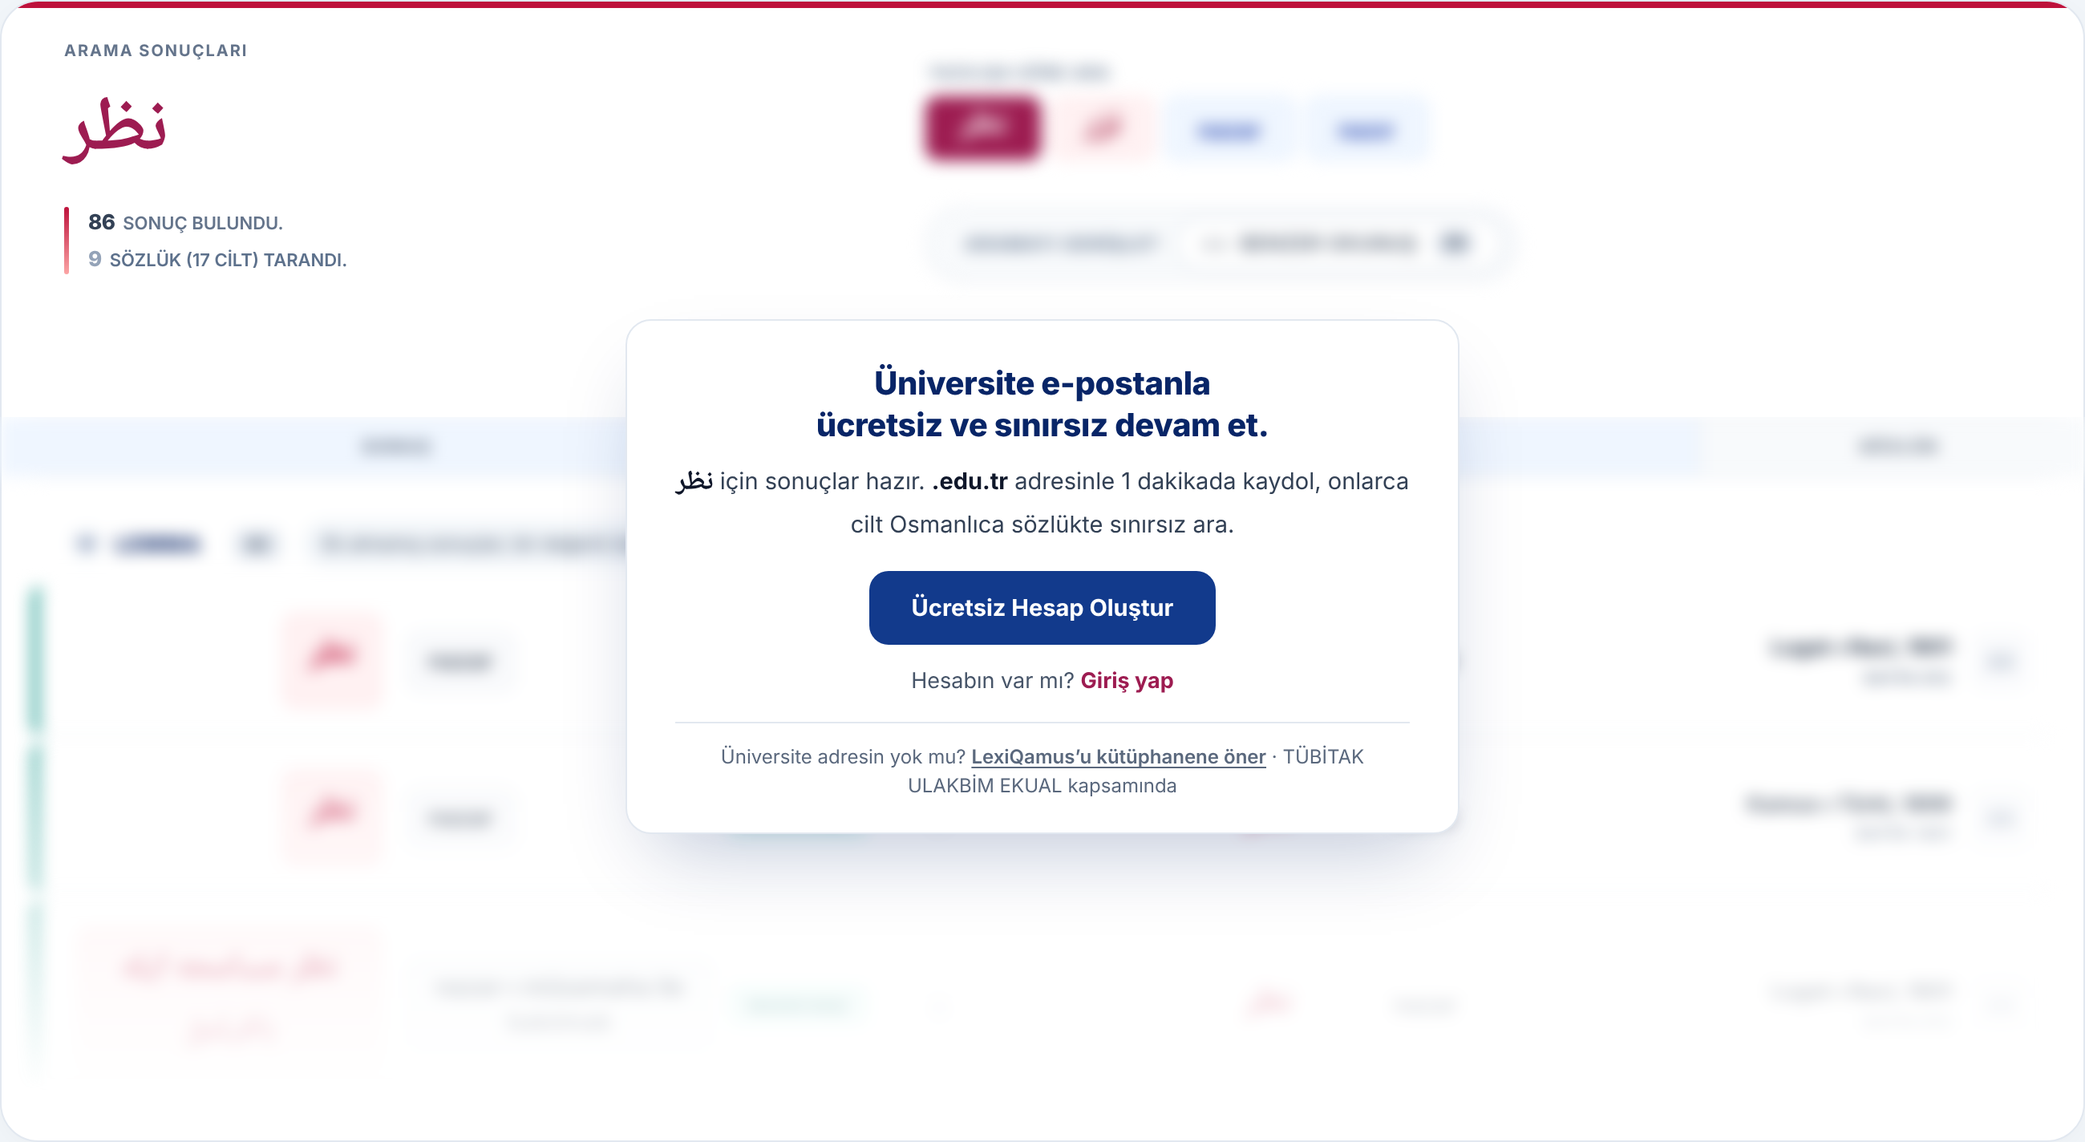
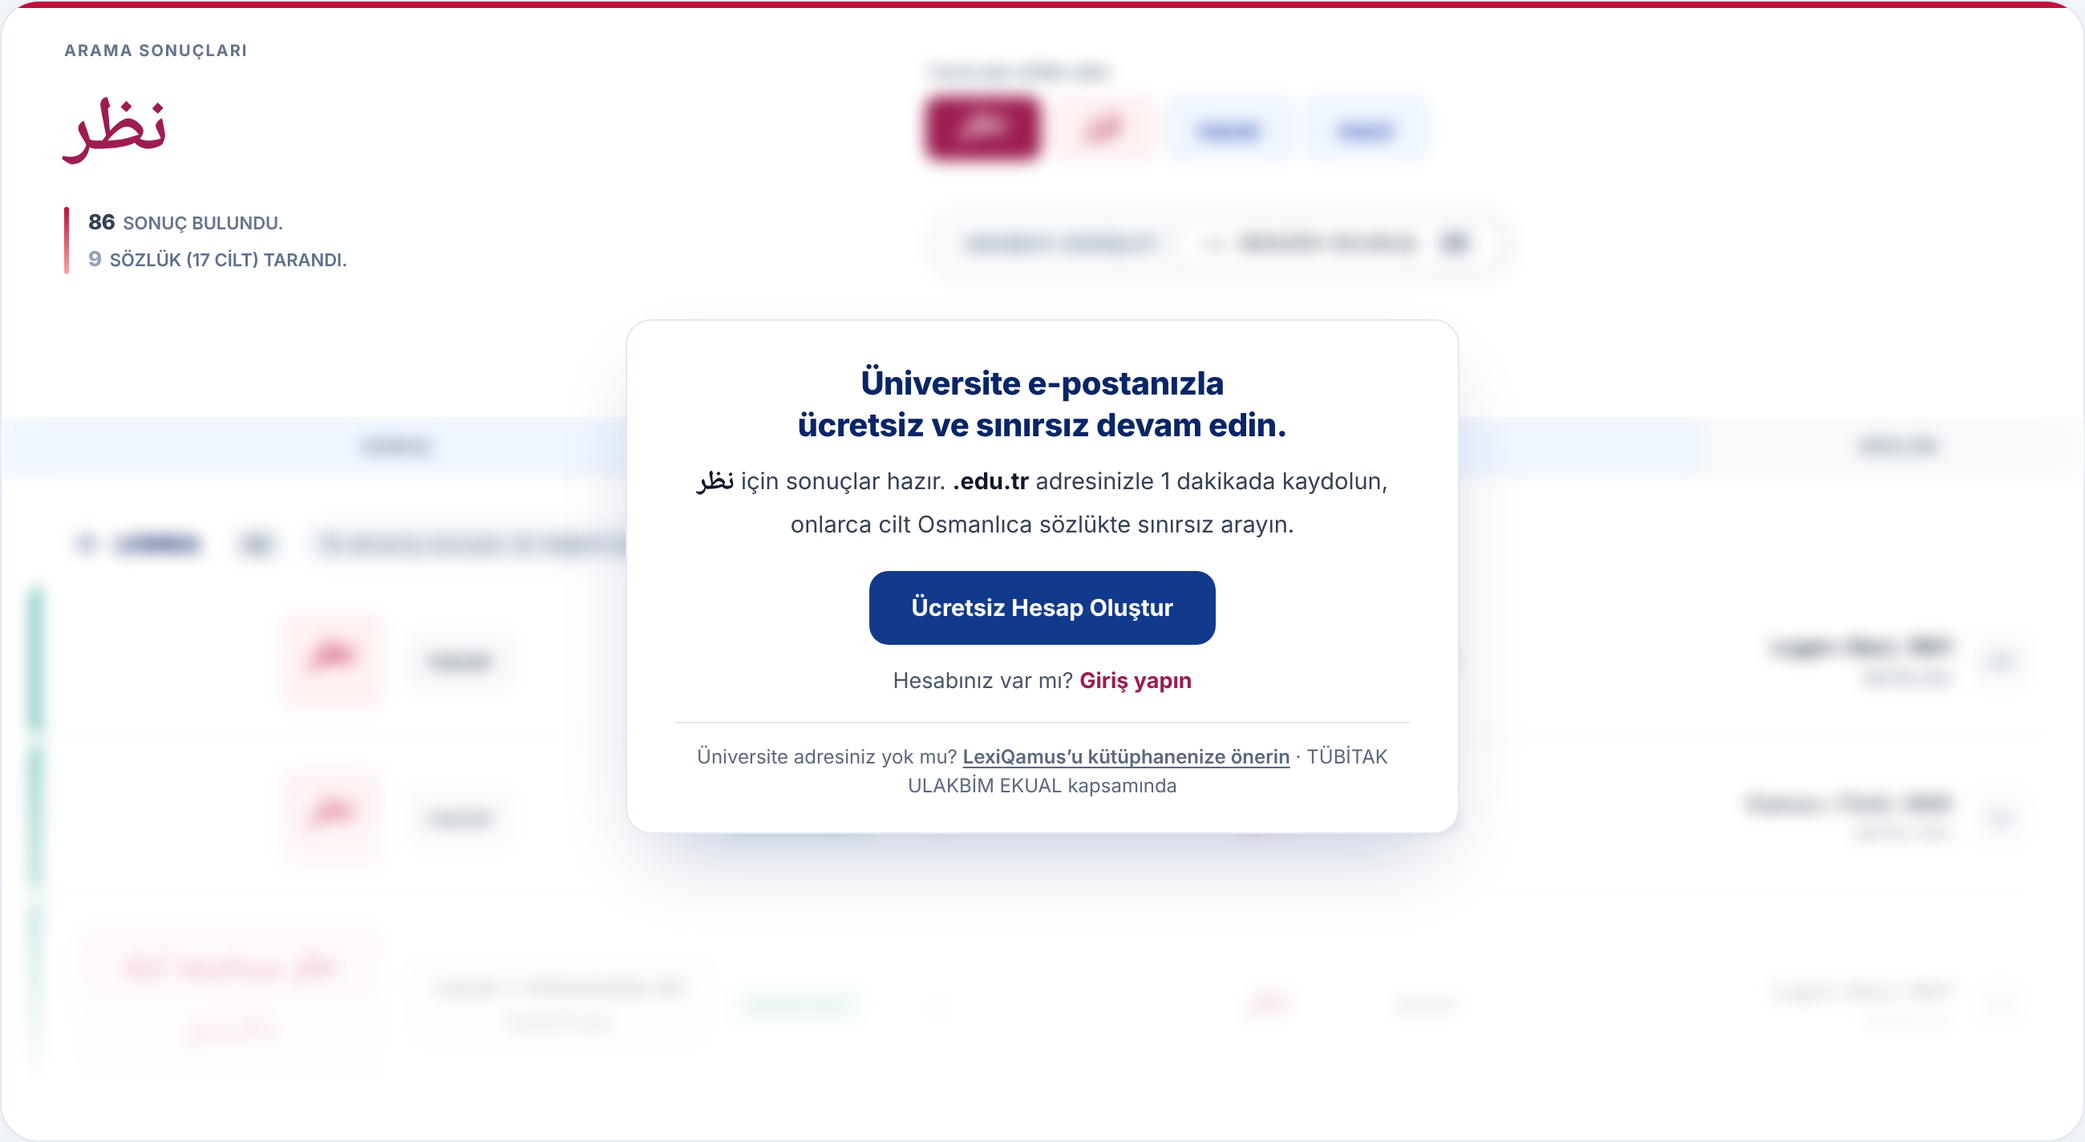
The conversion tickets follow the formal Turkish and the personal-address step
LQ-CV-1 and LQ-CV-3 take the Turkish text as it now reads, addressing the
reader as "siz", with fresh screenshots. LQ-CV-2 is rewritten around the
whole university sign-up: the offer line, the personal email field and
its errors, the "Check your inbox" step with the send-to-personal button,
every new string in both languages, and what the server has to store,
send and show support.

Claude-Session: https://claude.ai/code/session_016AjZEYBby257vLM7Sy5kZE

Changed region(s): [[0.3115, 0.309, 0.6854, 0.4635], [0.3427, 0.6489, 0.6542, 0.6798], [0.4362, 0.5871, 0.5608, 0.618]]

diff --git a/docs/tickets/LQ-CV-2-sign-up-form.md b/docs/tickets/LQ-CV-2-sign-up-form.md
@@ -1,82 +1,169 @@
-# LQ-CV-2 — The sign-up form says a university address makes it free
+# LQ-CV-2 — Sign-up with a university address: the offer, a personal address, and the inbox step
 
-- **Area:** The sign-up window
-- **Type:** Small change — one new line under the email field, and one tick box that starts unticked
-- **Front end:** done in the new front end (`muhammethabib/lq-frontend`, commit `850b9c6`)
-- **Server:** only the consent box needs a check (see *What the server needs to do*)
+- **Area:** The sign-up window, and a new step shown after it is sent
+- **Type:** Change to the form, plus one new step
+- **Front end:** done in the new front end (`muhammethabib/lq-frontend`, commits `850b9c6`, `901fded` and `99858fd`)
+- **Server:** store a second address, send the confirmation to either address, and record newsletter consent correctly (see *What the server needs to do*)
 
 ---
 
 ## Summary
 
-The sign-up form today never says that a `.edu.tr` address gets free,
-unlimited access — the very reason most people are signing up. Two changes:
+Accounts made with a `.edu.tr` address get free, unlimited access. The
+sign-up form today never says so, and it gives no way out when the
+confirmation email does not reach a university address — the person is
+left stuck and drops out.
 
-1. **A line under the email field** offers it, and turns into a green
-   confirmation as soon as the visitor types a university address.
-2. **The newsletter box starts unticked.** Today it is ticked in advance.
+Four changes:
+
+1. **A line under the email field** offers the free access, and turns into a
+   green confirmation as soon as a university address is typed.
+2. **A "Personal email" field** opens under it for a university address. It
+   is required for them. It is a backup: the confirmation link can be sent
+   there, and support can reach the person there.
+3. **A "Check your inbox" step** replaces the form once it is sent. It says
+   where the link went, and — for a university address — offers to send it
+   to the personal address with one press.
+4. **The newsletter box starts unticked.** Today it is ticked in advance.
    Under KVKK and the GDPR, consent to marketing mail has to be given by the
    user; a box that is already ticked does not count as consent.
 
 ## Today
 
-The newsletter box is already ticked, and nothing mentions `.edu.tr`.
+The newsletter box is already ticked, nothing mentions `.edu.tr`, and there
+is no second address.
 
 ![The sign-up form on the live site today](img/cv2-today.png)
 
 ## New
 
-**The whole form (English).** The line under *Email* is new; the newsletter
-box is unticked.
+### 1. The form, before an address is typed
 
-![The new sign-up form](img/cv2-form-en.png)
+The line under *Email* is new; the newsletter box is unticked.
 
-**While typing a non-university address** — the offer stays:
+![The new sign-up form, English](img/cv2-form-en.png)
+
+With a non-university address, the line stays as the offer:
 
 ![Hint with a gmail address, Turkish](img/cv2-plain-tr.png)
 
-**As soon as the address is a university one** — the line turns green:
+### 2. A university address is typed
 
-![Hint with a .edu.tr address, Turkish](img/cv2-edu-tr.png)
+The line turns green, and the *Personal email* field opens below it.
 
-![Hint with a .edu.tr address, English](img/cv2-edu-en.png)
+![The form with a .edu.tr address and the personal email field, Turkish](img/cv2-personal-tr.png)
+
+If the personal email is left empty, or is another university address, the
+form says so under the field and does not go on:
+
+![The error under the personal email field, Turkish](img/cv2-error-tr.png)
+
+### 3. After *Create account*: check your inbox
+
+**Signed up with a university address** — the link went to the university
+address; the box offers the personal one. After the button is pressed, a
+green line confirms it:
+
+![Check your inbox, university address, Turkish](img/cv2-sent-tr.png)
+
+![Check your inbox, university address, English](img/cv2-sent-en.png)
+
+**Signed up with a personal address** — only where the link went, and
+*Send it again*:
+
+![Check your inbox, personal address, Turkish](img/cv2-sentplain-tr.png)
 
 ## How it behaves
 
-1. When the form opens, the line under *Email* shows the offer.
-2. As the visitor types, the page checks the address after every key press.
-3. If the part after `@` ends in `edu.tr` (for example `ogr.ankara.edu.tr`,
-   `metu.edu.tr`), the offer is swapped for a green tick and the
-   confirmation.
-4. If the visitor changes the address so that it no longer ends in `edu.tr`,
-   the offer comes back.
-5. Screen readers hear the change (the line is a polite live region).
-6. The newsletter box is unticked when the form opens.
+1. When the form opens, the line under *Email* shows the offer. The
+   *Personal email* field is not shown.
+2. As the person types, the page checks the address after every key press.
+   If the part after `@` ends in `edu.tr` (for example `ogr.ankara.edu.tr`,
+   `metu.edu.tr`):
+   - the offer is swapped for a green tick and the confirmation;
+   - the *Personal email* field appears below and becomes required.
+3. If the address is changed so that it no longer ends in `edu.tr`, the offer
+   comes back and the *Personal email* field goes away again.
+4. On *Create account*, for a university address:
+   - an empty personal email shows *Please add a personal email as well.*;
+   - a personal email that is also a university address shows *Use an
+     address outside your university, such as Gmail or Outlook.*
+   - in both cases the form stays, with the cursor in that field.
+5. When the form is sent, the window's title becomes *Check your inbox* and
+   it shows the address the link went to.
+6. For a university address only, a box below says what to do if it does not
+   arrive, with the button **Send it to my personal address** and the
+   personal address under it. Pressing it sends the link there, greys the
+   button out and shows the green confirmation line.
+7. *Send it again* sends the link to the main address again.
+8. The newsletter box is unticked when the form opens.
+9. Screen readers hear the changing lines (the hint, the error and the
+   confirmation are polite live regions).
 
-The check, as written in the front end:
+The university-address check, as written in the front end:
 
 ```js
 /@([a-z0-9-]+\.)*edu\.tr$/i
 ```
 
+The *Personal email* field is asked only of university addresses: anyone
+signing up with Gmail, Outlook and so on is already giving a personal
+address, and a second field would only slow them down.
+
 ## New text
 
-Copy these exactly. Bold parts are marked with `<b>…</b>`.
+Copy these exactly. Bold parts are marked with `<b>…</b>`. The Turkish text
+addresses the reader as *siz*, as the rest of the site does.
+
+**The form**
 
 | Part | English | Turkish |
 |------|----------|----------|
-| Offer (before a university address is typed) | `Universities in Türkiye and the TRNC: sign up with your <b>.edu.tr</b> address to use LexiQamus free and without limits.` | `<b>.edu.tr</b> adresinle kaydol, LexiQamus’u ücretsiz ve sınırsız kullan.` |
+| Offer (before a university address is typed) | `Universities in Türkiye and the TRNC: sign up with your <b>.edu.tr</b> address to use LexiQamus free and without limits.` | `<b>.edu.tr</b> adresinizle kaydolun, LexiQamus’u ücretsiz ve sınırsız kullanın.` |
 | Confirmation (after one is typed) | `University address: free, unlimited access.` | `Üniversite adresi: ücretsiz ve sınırsız erişim.` |
+| Personal email, label | `Personal email` | `Kişisel e-posta` |
+| Personal email, hint | `A backup address. We can send your confirmation link here as well if you like, and our support team can reach you here.` | `Yedek adresiniz. Doğrulama bağlantısını isterseniz buraya da göndeririz; destek ekibimiz de size bu adresten ulaşır.` |
+| Error, empty | `Please add a personal email as well.` | `Kişisel e-posta adresinizi de yazın.` |
+| Error, a university address | `Use an address outside your university, such as Gmail or Outlook.` | `Üniversite dışı bir adres yazın; örneğin Gmail ya da Outlook.` |
+
+**The inbox step**
+
+| Part | English | Turkish |
+|------|----------|----------|
+| Title | `Check your inbox` | `E-postanızı kontrol edin` |
+| Before the address | `We sent a confirmation link to` | *(empty)* |
+| After the address | `.` | ` adresine doğrulama bağlantısı gönderdik.` *(starts with a space)* |
+| Next line | `Open it to finish creating your account.` | `Hesabınızı oluşturmayı tamamlamak için bağlantıyı açın.` |
+| If it does not arrive (university address only) | `Not there in a few minutes? Check your spam folder, or have the link sent to your personal address.` | `Birkaç dakika içinde gelmediyse spam klasörünüze bakabilir ya da bağlantıyı kişisel adresinize gönderebilirsiniz.` |
+| Button (university address only) | `Send it to my personal address` | `Kişisel adresime gönder` |
+| After the button is pressed | `Sent to your personal address too. Use whichever arrives first.` | `Kişisel adresinize de gönderdik. Hangisi önce gelirse onu kullanabilirsiniz.` |
+| Link | `Send it again` | `Yeniden gönder` |
+
+English puts the address after the words and Turkish before them, so the line
+has a slot on each side.
 
 ## What the server needs to do
 
-1. **Store newsletter consent only when the box was ticked.** If the server
+1. **Store the personal address** with the account, as a second email,
+   whenever one is given. It is given only with a university address.
+2. **Check it on the server too:** required when the main address ends in
+   `edu.tr`, and not itself an `edu.tr` address. The front end checks this
+   already; the server should not rely on it.
+3. **Send the confirmation link to the university address first.**
+4. **"Send it to my personal address"** sends the same link (or a fresh one)
+   to the personal address. Either link confirms the account. Confirming
+   through the personal address must still give the account its university
+   access — the access comes from the university address, not from which
+   inbox the link was opened in.
+5. **"Send it again"** sends the link to the main address again. A short
+   wait between sends (for example 60 seconds) keeps it from being pressed
+   over and over.
+6. **Show the personal address to the support team** in the admin, next to
+   the main address.
+7. **Store newsletter consent only when the box was ticked.** If the server
    sets a default anywhere (a model default, a migration, a hidden field),
-   it should default to *no*.
-2. **Existing members are not affected.** This only changes what a new
-   sign-up starts with.
-3. **The free access itself does not change.** The form only *says* what the
-   server already does for `.edu.tr` addresses. If the server's own rule for
+   it should default to *no*. Existing members are not affected.
+8. **The free access rule does not change.** If the server's own rule for
    which addresses count is different from the check above, tell us and we
    will make the front end match it.
 
@@ -84,17 +171,28 @@ Copy these exactly. Bold parts are marked with `<b>…</b>`.
 
 | What | Where |
 |----|------------|
-| Markup | `js/page_chrome.js` — the sign-up form in `authTemplate`, `#signUpEmailHint` |
-| Behaviour | `js/controllers/page_chrome_controller.js` — `UNIVERSITY_ADDRESS` and the `input` listener in `openAuth()` |
-| Look | `css/account-window.css` — `.auth-edu` |
-| Turkish text | `js/translations.js` — `authEduHint`, `authEduOk` |
+| Markup | `js/page_chrome.js` — `authTemplate`: `#signUpEmailHint`, `#signUpPersonalField`, and the new `#signUpSentPane` |
+| Behaviour | `js/controllers/page_chrome_controller.js` — `UNIVERSITY_ADDRESS`, `wireSignUp()` and `showSent()` |
+| Look | `css/account-window.css` — `.auth-edu`, `.auth-error` and the *after sign-up* section |
+| Turkish text | `js/translations.js` — `authEdu…`, `authPersonal…`, `authSent…`, `authSendPersonal`, `authResend` |
 | To see it | side menu → **Sign up** |
+
+In the front end the inbox step is shown as soon as the form is sent, and its
+two buttons only change what is on screen. The real sending, and anything
+the server says back (an address already in use, a password that is too
+weak), is for the integration.
 
 ## Done when
 
 - [ ] The offer line shows under *Email* when the form opens.
-- [ ] Typing a `.edu.tr` address turns it into the green confirmation;
-      changing it back brings the offer back.
+- [ ] Typing a `.edu.tr` address turns it green and opens the required
+      *Personal email* field; changing it back hides the field again.
+- [ ] An empty or university personal email is refused, on the page and on
+      the server.
+- [ ] After sign-up the inbox step names the address the link went to.
+- [ ] For a university address, *Send it to my personal address* sends the
+      link there, and confirming from either inbox gives university access.
+- [ ] Support can see the personal address.
 - [ ] The newsletter box is unticked when the form opens, and the server
       records consent only when it is ticked.
-- [ ] Turkish and English text match the table above.
+- [ ] Turkish and English text match the tables above.

diff --git a/docs/tickets/LQ-CV-1-access-limit-screen.md b/docs/tickets/LQ-CV-1-access-limit-screen.md
@@ -2,7 +2,7 @@
 
 - **Area:** Search page — what a visitor sees when their free searches are used up
 - **Type:** Change to an existing screen (wording, layout and one new field from the server)
-- **Front end:** done in the new front end (`muhammethabib/lq-frontend`, commits `850b9c6` and `4f4807e`)
+- **Front end:** done in the new front end (`muhammethabib/lq-frontend`, commits `850b9c6`, `4f4807e` and `99858fd`)
 - **Server:** one new field on the search response, and a decision on what results are sent while it is set (see *What the server needs to do*)
 
 ---
@@ -65,20 +65,21 @@ Copy these exactly. Bold parts are marked with `<b>…</b>`.
 
 | Part | English | Turkish |
 |------|----------|----------|
-| Title | `Carry on free and without limits with your university email.` | `Üniversite e-postanla ücretsiz ve sınırsız devam et.` |
+| Title | `Carry on free and without limits with your university email.` | `Üniversite e-postanızla ücretsiz ve sınırsız devam edin.` |
 | Before the word | `The results for` | *(empty)* |
 | After the word | `are ready.` | `için sonuçlar hazır.` |
-| How to get them | `Universities in Türkiye and the TRNC: sign up in a minute with your <b>.edu.tr</b> address and search dozens of volumes of Ottoman Turkish dictionaries without limits.` | `<b>.edu.tr</b> adresinle 1 dakikada kaydol, onlarca cilt Osmanlıca sözlükte sınırsız ara.` |
+| How to get them | `Universities in Türkiye and the TRNC: sign up in a minute with your <b>.edu.tr</b> address and search dozens of volumes of Ottoman Turkish dictionaries without limits.` | `<b>.edu.tr</b> adresinizle 1 dakikada kaydolun, onlarca cilt Osmanlıca sözlükte sınırsız arayın.` |
 | Button | `Create a free account` | `Ücretsiz Hesap Oluştur` |
-| Sign-in line | `Already have an account?` | `Hesabın var mı?` |
-| Sign-in link | `Sign in` | `Giriş yap` |
-| Footer, question | `No university address?` | `Üniversite adresin yok mu?` |
-| Footer, link | `Recommend LexiQamus to your library` | `LexiQamus’u kütüphanene öner` |
+| Sign-in line | `Already have an account?` | `Hesabınız var mı?` |
+| Sign-in link | `Sign in` | `Giriş yapın` |
+| Footer, question | `No university address?` | `Üniversite adresiniz yok mu?` |
+| Footer, link | `Recommend LexiQamus to your library` | `LexiQamus’u kütüphanenize önerin` |
 | Footer, credit | `Under TÜBİTAK ULAKBİM EKUAL` | `TÜBİTAK ULAKBİM EKUAL kapsamında` |
 
 The English line says who the offer is for (*Universities in Türkiye and the
 TRNC*), because most English readers are outside Türkiye. The Turkish line
-does not need it.
+does not need it. The Turkish text addresses the reader as *siz*, as the rest
+of the site does.
 
 ## What the server needs to do
 

diff --git a/docs/tickets/LQ-CV-3-ekual-announcement.md b/docs/tickets/LQ-CV-3-ekual-announcement.md
@@ -2,7 +2,7 @@
 
 - **Area:** The announcement window a first-time visitor sees (TÜBİTAK ULAKBİM EKUAL)
 - **Type:** Wording and layout change
-- **Front end:** done in the new front end (`muhammethabib/lq-frontend`, commits `850b9c6`, `56a4234` and `4f4807e`)
+- **Front end:** done in the new front end (`muhammethabib/lq-frontend`, commits `850b9c6`, `56a4234`, `4f4807e` and `99858fd`)
 - **Server:** nothing
 
 ---
@@ -50,16 +50,17 @@ Copy these exactly. Bold parts are marked with `<b>…</b>`.
 | Part | English | Turkish |
 |------|----------|----------|
 | Badge *(unchanged)* | `TÜBİTAK ULAKBİM · EKUAL` | `TÜBİTAK ULAKBİM · EKUAL` |
-| Title | `LexiQamus is free with your university email.` | `Üniversite e-postanla LexiQamus ücretsiz.` |
+| Title | `LexiQamus is free with your university email.` | `Üniversite e-postanızla LexiQamus ücretsiz.` |
 | What is included | `Dozens of volumes of Ottoman Turkish dictionaries, unlimited searching, every entry.` | `Onlarca cilt Osmanlıca sözlük, sınırsız arama, tüm içerik.` |
-| How to sign up | `For universities in Türkiye and the TRNC: sign up in a minute with your <b>.edu.tr</b> address.` | `<b>.edu.tr</b> adresinle 1 dakikada kaydol.` |
+| How to sign up | `For universities in Türkiye and the TRNC: sign up in a minute with your <b>.edu.tr</b> address.` | `<b>.edu.tr</b> adresinizle 1 dakikada kaydolun.` |
 | Button | `Create a free account` | `Ücretsiz Hesap Oluştur` |
 | Second button *(unchanged)* | `Later` | `Daha sonra` |
 | Corner link *(unchanged)* | `Don't show again` | `Bir daha gösterme` |
 
 The English line says who the offer is for (*For universities in Türkiye and
 the TRNC*), because most English readers are outside Türkiye. The Turkish
-line does not need it.
+line does not need it. The Turkish text addresses the reader as *siz*, as the
+rest of the site does.
 
 *"Dozens of volumes"* is used instead of a number so it stays true as
 volumes are added and never needs updating.
@@ -74,7 +75,7 @@ check there:
   the bar *and* this window, they are told the same thing twice. Show one or
   the other — for example the bar only after this window has been closed.
 - **The bar's wording can follow this window:** one line, such as
-  *Üniversite e-postanla LexiQamus ücretsiz. Hemen kaydol →* /
+  *Üniversite e-postanızla LexiQamus ücretsiz. Hemen kaydolun →* /
   *LexiQamus is free with your university email. Sign up →*
 
 ## In the new front end
